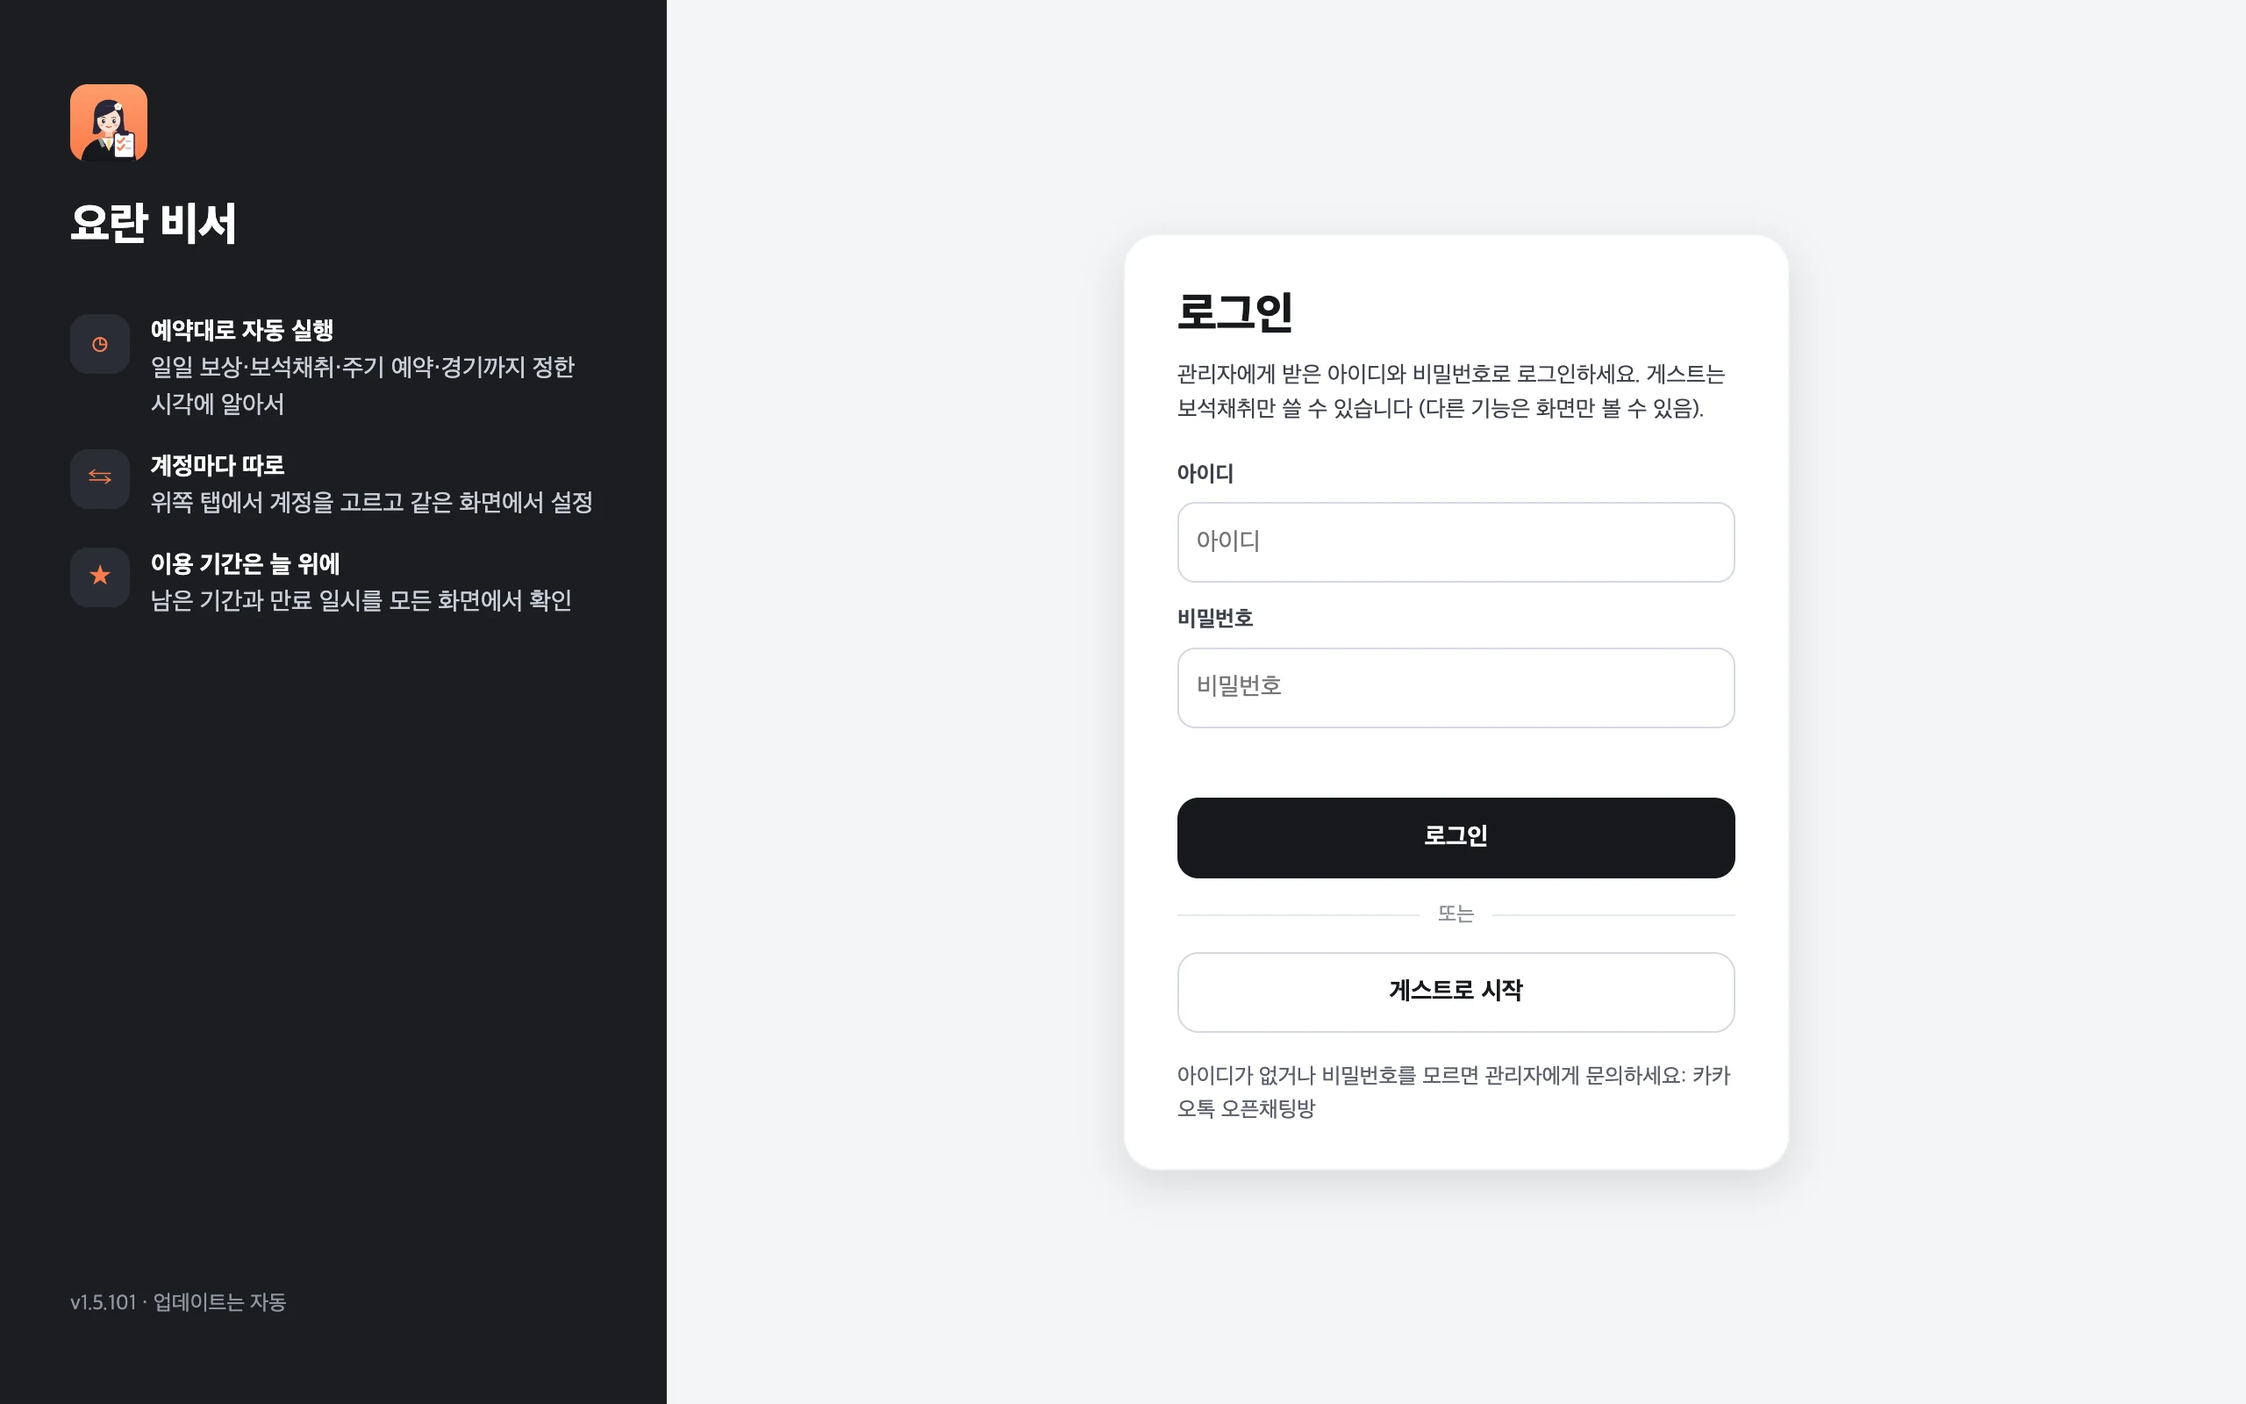
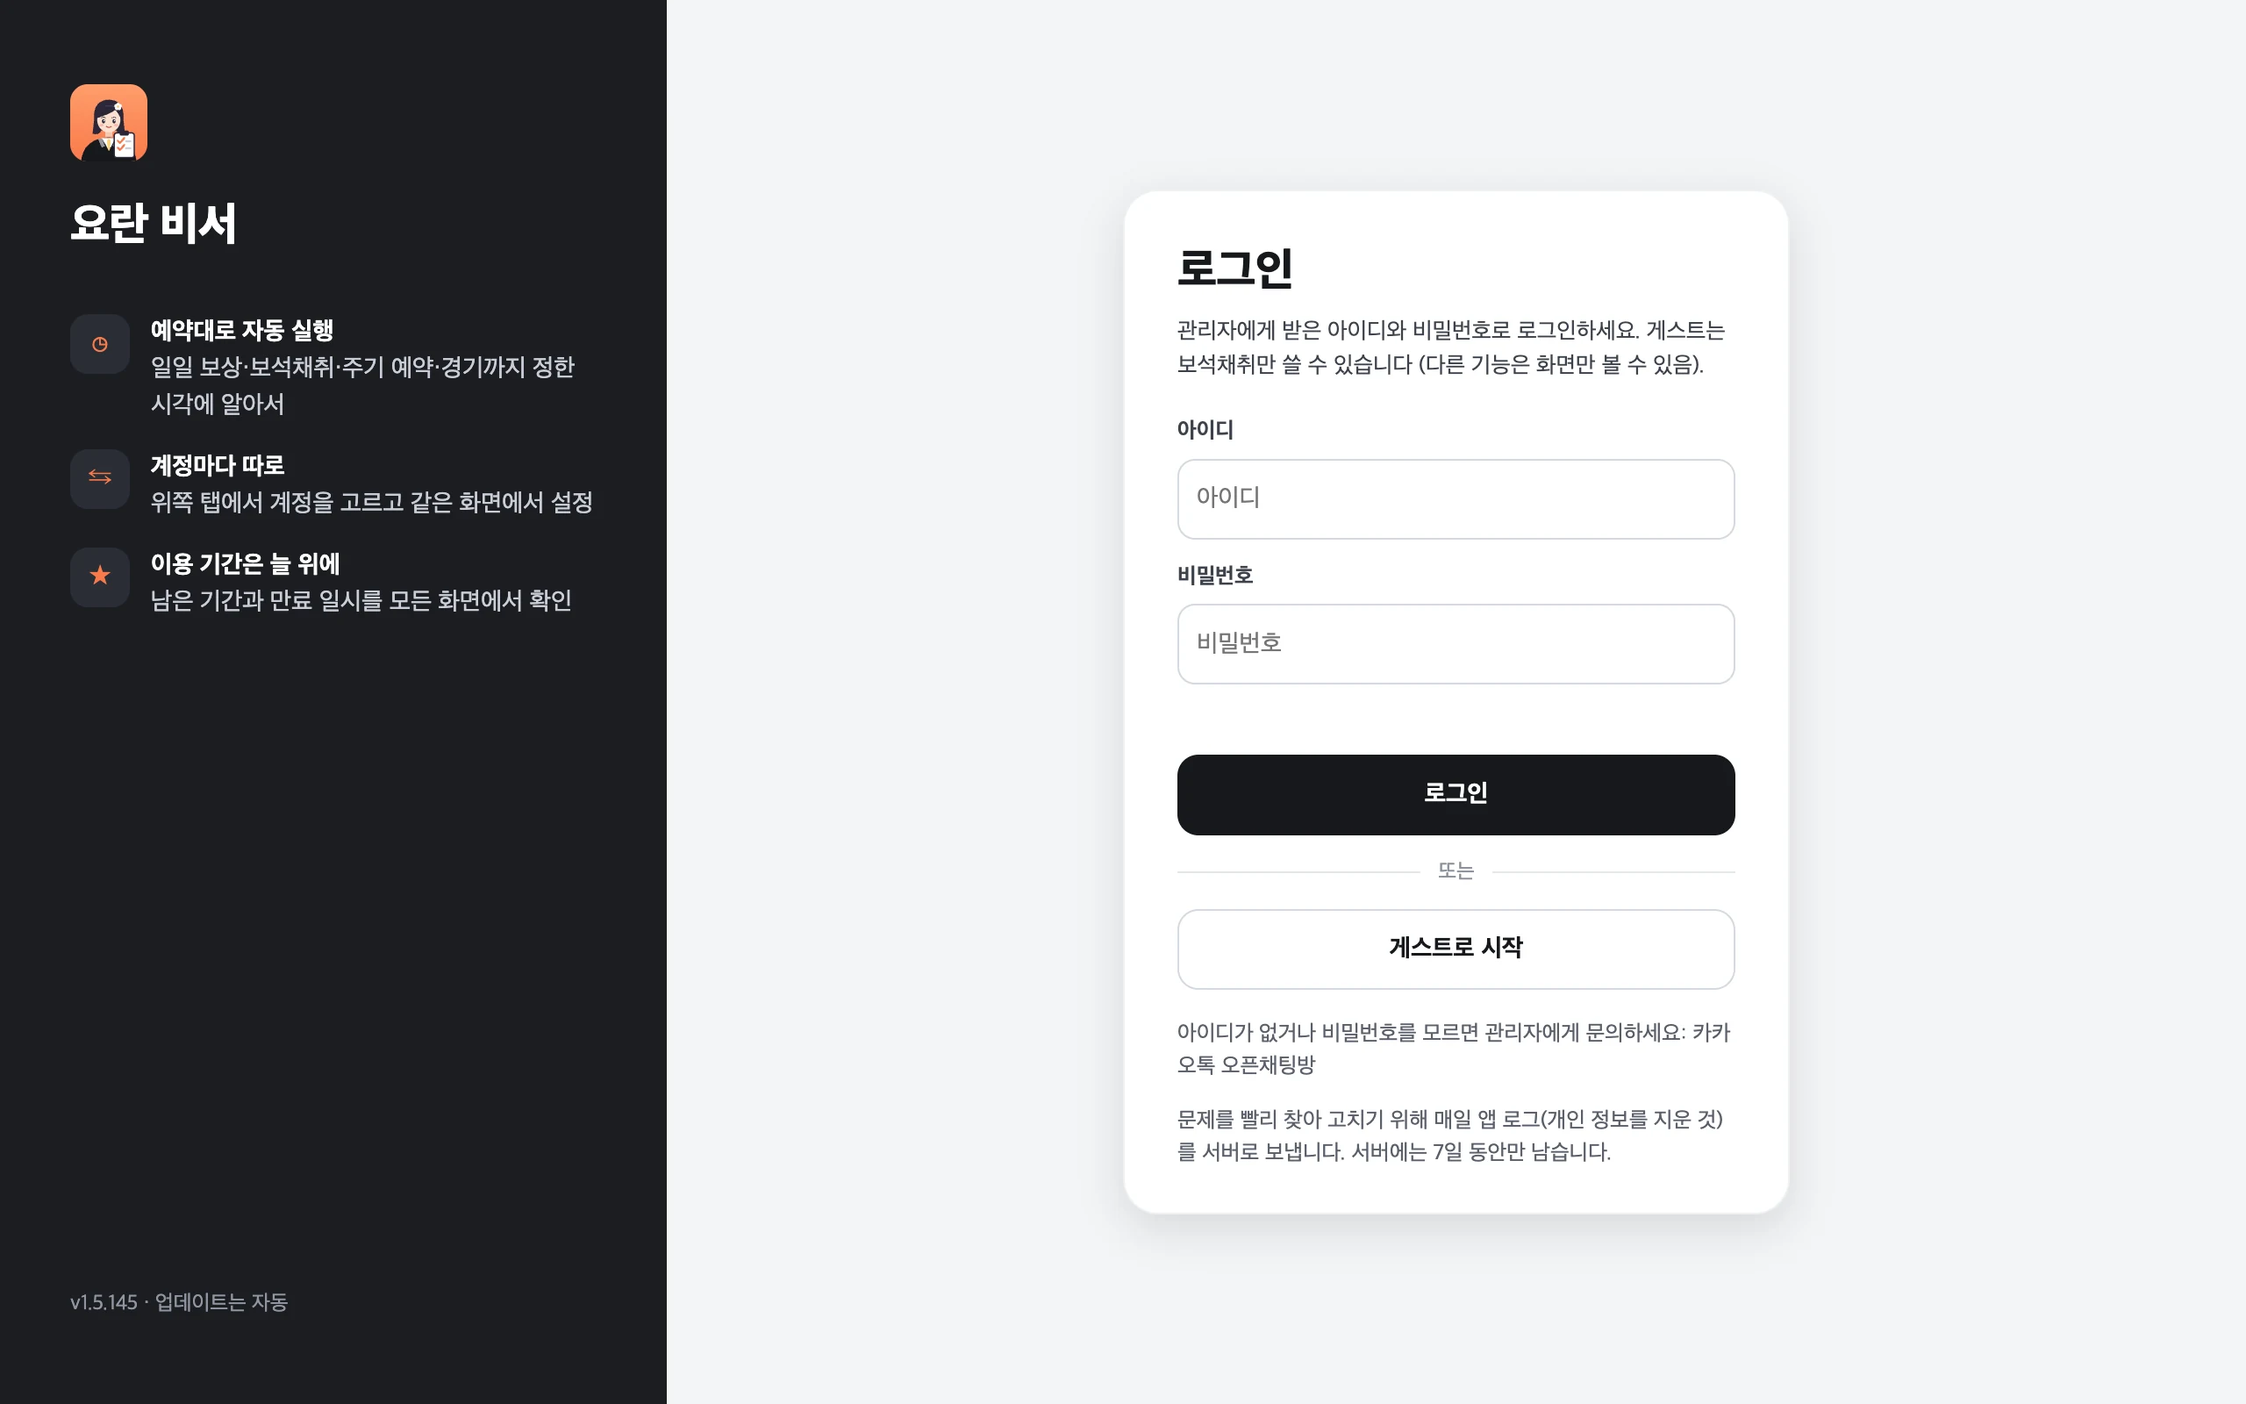
v1.5.145 홈페이지: 앱 로그 보내기 안내 (README 52b21c4와 같게)
- 사용설명서: 기록 절 「앱 로그 보내기」(#log-upload), 로그인 절·문제가 생겼을 때 한 줄
- 모바일 설명서: 기록(로그) 보내기 칸(#logs-upload)·로그인 한 줄·자주 묻는 질문(#faq-log-upload)
- 홈: 자주 묻는 질문 「내 기록(로그)이 서버로 가나요?」
- 로그인 화면 그림 2장 다시 찍음(아래쪽 로그 안내)

Claude-Session: https://claude.ai/code/session_01KmZacAeoiGxHpjKwWGpkTY

Changed region(s): [[0.5, 0.5312, 0.8125, 0.8438], [0.5, 0.1562, 0.7812, 0.5], [0.0625, 0.9062, 0.125, 0.9375]]

diff --git a/docs/android.html b/docs/android.html
@@ -214,7 +214,7 @@
           </div><figcaption>허용 누르기</figcaption></figure>
         </div>
       </div>
-      <div class="steps-fig" id="first-login" data-s data-st="요란 비서 아이디로 로그인" data-k="아이디 비밀번호 로그인 게스트 보석채취 대수 등록 휴대폰수초과">
+      <div class="steps-fig" id="first-login" data-s data-st="요란 비서 아이디로 로그인" data-k="아이디 비밀번호 로그인 게스트 보석채취 대수 등록 휴대폰수초과 앱로그 서버 개인정보 7일">
         <div>
           <h3><span class="n">2</span>요란 비서 아이디로 로그인</h3>
           <p>관리자에게 받은 <b>아이디</b>와 <b>비밀번호</b>를 넣고 <kbd>로그인</kbd>을 누릅니다. PC와 같은 아이디입니다.</p>
@@ -222,6 +222,7 @@
             <li>로그인하면 화면 위에 <b>남은 기간 · 아이디 · 등급 · 만료 일시</b>가 보입니다.</li>
             <li><kbd>게스트로 시작</kbd>하면 보석채취만 쓸 수 있습니다 (다른 기능은 화면만 볼 수 있음).</li>
             <li>휴대폰은 PC와 <b>따로</b> 대수를 셉니다(기본 1대). 「등록 휴대폰 수 초과」로 게스트가 되면 관리자에게 대수를 문의하세요.</li>
+            <li>로그인 화면 아래쪽 안내처럼, 요란 비서가 매일 앱 로그(개인 정보를 지운 것)를 서버로 보냅니다. 서버에는 7일 동안만 남고, 로그인한 앱만 보냅니다(<a href="#logs-upload">앱 로그 보내기</a>, v1.5.145부터).</li>
           </ul>
         </div>
         <div class="figs"><figure class="phone"><div class="ph"><img loading="lazy" src="img/phone-login.webp" width="780" height="1688" alt="안드로이드 앱의 요란 비서 로그인 화면"></div><figcaption>요란 비서 로그인</figcaption></figure></div>
@@ -497,11 +498,19 @@
       </div>
     </section>
 
-    <section class="chap" id="logs" data-k="로그 기록 보내기 문의 오류 파일 다운로드 카카오톡 공유">
+    <section class="chap" id="logs" data-k="로그 기록 보내기 문의 오류 파일 다운로드 카카오톡 공유 서버 앱로그보냄 개인정보 7일">
       <h2>기록(로그) 보내기</h2>
+      <div class="note" id="logs-upload" data-s data-st="앱 로그 보내기 (매일 서버로, 개인 정보를 지운 것, 7일)" data-k="로그보내기 앱로그보냄 서버 전송 업로드 개인정보 7일 관리자"><b>앱 로그 보내기</b> 문제를 빨리 찾아 고치기 위해 요란 비서가 매일 앱 로그(개인 정보를 지운 것)를 서버로 보냅니다. 서버에는 7일 동안만 남습니다(v1.5.145부터, 모든 등급·PC와 휴대폰).
+        <ul>
+          <li>00:30이 지나면 전날 계정 기록을 계정마다 한 번 보냅니다. 앱이 꺼져 있던 날은 다음에 켤 때 최근 7일 안에서 아직 안 보낸 날만 보냅니다. 보내면 계정 기록에 「앱 로그 보냄」 한 줄이 남습니다.</li>
+          <li>보내기 전에 이 기기에서 지우는 것: 컴퓨터·휴대폰 사용자 폴더 경로, 이메일, 로그인 아이디, 계정 이름(→ 계정N), 게임 캐릭터 이름·G123 ID, 컴퓨터 이름.</li>
+          <li>함께 보내는 것: 앱 버전, 운영체제·버전(휴대폰은 안드로이드·WebView 버전과 기종), 그 계정의 기능 설정(예약이 빠졌는지 보기 위함).</li>
+          <li>관리자만 볼 수 있고, 로그인한 앱만 자기 기록을 보냅니다(로그인하지 않고 쓰는 경우는 보내지 않음).</li>
+        </ul>
+      </div>
       <div class="steps-fig" id="logs-send" data-s data-st="로그 파일을 카카오톡으로 보내기" data-k="로그폴더열기 다운로드 RyoranMacro 공유">
         <div>
-          <p>문제가 있을 때 로그 파일을 보내 주시면 원인을 바로 찾을 수 있습니다.</p>
+          <p>문제가 있을 때 로그 파일을 보내 주시면 원인을 바로 찾을 수 있습니다. 오늘 생긴 문제는 다음 날 00:30이 지나야 서버로 가니, 빨리 알려 주시려면 아래처럼 직접 보내 주세요.</p>
           <ol>
             <li>아래 탭 <b>기록</b>에서 <kbd>로그 폴더 열기</kbd>를 누릅니다.</li>
             <li>날짜별 로그가 휴대폰 <b>다운로드 / RyoranMacro / 계정N</b> 폴더에 저장되고 파일 앱이 열립니다.</li>
@@ -538,6 +547,7 @@
       <details class="faq" id="faq-battery-data" data-k="배터리 데이터 사용량 발열 와이파이"><summary>배터리·데이터는 얼마나 쓰나요?</summary><div><p>기능이 도는 동안에만 게임을 돌리므로 그때 배터리와 데이터를 씁니다(게임을 직접 할 때와 비슷). 기능이 끝나고 1분 뒤 게임 창을 닫습니다. 오래 도는 기능(카드 게임·채굴 등)을 많이 켜면 더 씁니다. 와이파이와 충전기에 연결해 두면 안심입니다.</p></div></details>
       <details class="faq" id="faq-pc-together" data-k="pc 같이 동시 함께 컴퓨터"><summary>PC와 휴대폰을 같이 써도 되나요?</summary><div><p>네, 같은 요란 비서 아이디로 PC와 휴대폰을 각각 쓸 수 있습니다(대수는 따로 셈). 다만 <b>같은 게임 계정</b>을 두 곳에서 동시에 돌리면 서로 끊깁니다 — 예: 본계정은 휴대폰, 부계정은 PC처럼 나눠 쓰세요. 설정은 기기마다 따로입니다.</p></div></details>
       <details class="faq" id="faq-accounts" data-k="계정수 5개 여러계정 계정추가 삭제"><summary>게임 계정은 몇 개까지 되나요?</summary><div><p>휴대폰 앱은 5개까지(등급의 계정 수 안에서) 씁니다. 필요 없는 계정은 계정 관리의 <kbd>삭제</kbd> → <kbd>확인</kbd>으로 뺄 수 있습니다. 계정이 많을수록 동시에 쓰는 메모리가 늘어납니다.</p></div></details>
+      <details class="faq" id="faq-log-upload" data-k="로그 서버 전송 보내기 개인정보 7일 앱로그보냄 관리자"><summary>내 기록(로그)이 서버로 가나요?</summary><div><p>네. v1.5.145부터 요란 비서가 문제를 빨리 찾아 고치기 위해 매일 00:30이 지나면 전날 앱 로그를 서버로 보냅니다. 보내기 전에 이 휴대폰에서 이메일·로그인 아이디·계정 이름·게임 캐릭터 이름·G123 ID 같은 개인 정보를 지웁니다. 서버에는 7일 동안만 남고 관리자만 볼 수 있습니다(<a href="#logs-upload">자세히</a>).</p></div></details>
       <details class="faq" id="faq-beta" data-k="베타 경기 확인 테스트"><summary>안드로이드 앱은 베타인가요?</summary><div><p>네. 기능·설정·예약은 PC와 같은 코드로 돌지만, 경기 기능(유파 쟁탈전 등)과 화면을 거치는 일부 작업은 휴대폰에서 계속 확인하고 있습니다. 처음 며칠은 「기록」을 확인해 주시고, 이상하면 로그와 함께 알려 주세요.</p></div></details>
     </section>
 

diff --git a/docs/guide.html b/docs/guide.html
@@ -117,6 +117,7 @@
             <li>기간이 끝나면 게스트(보석채취만)로 바뀌고, 연장하면 다음 확인(2시간마다) 때 원래 등급으로 돌아옵니다. 실행 중이던 기능은 끝까지 합니다.</li>
             <li>인터넷이 끊겨도 마지막으로 확인한 등급으로 24시간까지는 그대로 씁니다.</li>
             <li>아이디마다 쓸 수 있는 PC 대수가 정해져 있을 수 있습니다. PC를 바꿨다면 관리자에게 문의하세요.</li>
+            <li>로그인 화면 아래쪽에 「문제를 빨리 찾아 고치기 위해 매일 앱 로그(개인 정보를 지운 것)를 서버로 보냅니다. 서버에는 7일 동안만 남습니다.」 안내가 있습니다. 로그인한 앱만 보냅니다(<a href="#log-upload">앱 로그 보내기</a>, v1.5.145부터).</li>
           </ul>
         </div>
         <figure class="fig"><div class="shot"><img loading="lazy" src="img/login.webp" alt="로그인 화면"></div><figcaption>로그인 화면</figcaption></figure>
@@ -282,6 +283,14 @@
         </div>
         <figure class="shot"><img loading="lazy" src="img/screen-logs.webp" width="2560" height="1600" alt="기록 화면"></figure>
       </div>
+      <div class="note" id="log-upload" data-s data-st="앱 로그 보내기 (매일 서버로, 개인 정보를 지운 것, 7일)" data-k="로그보내기 앱로그보냄 서버 전송 업로드 개인정보 7일 관리자"><b>앱 로그 보내기</b> 문제를 빨리 찾아 고치기 위해 요란 비서가 매일 앱 로그(개인 정보를 지운 것)를 서버로 보냅니다. 서버에는 7일 동안만 남습니다(v1.5.145부터, 모든 등급·PC와 휴대폰).
+        <ul>
+          <li>00:30이 지나면 전날 계정 기록을 계정마다 한 번 보냅니다. 앱이 꺼져 있던 날은 다음에 켤 때 최근 7일 안에서 아직 안 보낸 날만 보냅니다. 보내면 계정 기록에 「앱 로그 보냄」 한 줄이 남습니다.</li>
+          <li>보내기 전에 이 기기에서 지우는 것: 컴퓨터·휴대폰 사용자 폴더 경로, 이메일, 로그인 아이디, 계정 이름(→ 계정N), 게임 캐릭터 이름·G123 ID, 컴퓨터 이름.</li>
+          <li>함께 보내는 것: 앱 버전, 운영체제·버전(휴대폰은 안드로이드·WebView 버전과 기종), 그 계정의 기능 설정(예약이 빠졌는지 보기 위함).</li>
+          <li>관리자만 볼 수 있고, 로그인한 앱만 자기 기록을 보냅니다(로그인하지 않고 쓰는 경우는 보내지 않음).</li>
+        </ul>
+      </div>
     </section>
 
     <section class="chap" id="rules">
@@ -312,7 +321,7 @@
 
     <section class="chap" id="trouble">
       <h2>문제가 생겼을 때</h2>
-      <p>먼저 「기록」에서 실패한 실행을 눌러 전체 로그를 확인하세요. 오류가 나면 로그에 <code>오류: …</code>로 남고, 같은 폴더에 그 순간의 화면이 <code>error-날짜_시각.png</code>로 저장됩니다(유파 쟁탈전은 <code>gvg-</code>, 일일 보상은 <code>daily-</code> 등으로 시작). 관리자에게 문의할 때 함께 보내 주세요.</p>
+      <p>먼저 「기록」에서 실패한 실행을 눌러 전체 로그를 확인하세요. 오류가 나면 로그에 <code>오류: …</code>로 남고, 같은 폴더에 그 순간의 화면이 <code>error-날짜_시각.png</code>로 저장됩니다(유파 쟁탈전은 <code>gvg-</code>, 일일 보상은 <code>daily-</code> 등으로 시작). 관리자에게 문의할 때 함께 보내 주세요. 전날까지의 앱 로그는 요란 비서가 매일 서버로도 보냅니다(<a href="#log-upload">앱 로그 보내기</a>, v1.5.145부터).</p>
       <div class="table-wrap" style="margin:16px 0 20px">
         <table>
           <thead><tr><th></th><th>로그 폴더</th></tr></thead>

diff --git a/docs/index.html b/docs/index.html
@@ -225,6 +225,7 @@
       <details class="faq"><summary>안드로이드 앱이 돌면 휴대폰을 못 쓰나요?</summary><div><p>아닙니다. 요란 비서는 뒤에서 돌고 게임 화면도 보이지 않아서 카카오톡·유튜브 같은 다른 앱을 평소처럼 쓸 수 있습니다. 알림 표시줄에 「요란 비서」 알림 하나가 남습니다.</p><p>기능이 도는 동안에는 게임 계정 하나에 메모리를 1GB쯤 쓰고 배터리와 데이터를 씁니다. 기능이 끝나고 1분이 지나면 게임 창을 닫아 메모리를 돌려줍니다. 요란 비서를 끄려면 알림의 [요란 비서 종료]를 누르고, 휴대폰을 켤 때 저절로 시작하지 않게 하려면 앱의 계정 관리에서 끕니다. 같은 게임 계정으로 휴대폰에서 직접 게임하면 아래처럼 서로 접속이 끊깁니다.</p></div></details>
       <details class="faq"><summary>휴대폰으로 같은 계정에 접속해도 되나요?</summary><div><p>다른 곳에서 같은 게임 계정으로 접속하면 요란 비서 쪽 게임이 끊깁니다. 요란 비서는 바로 다시 접속하지 않고 30분을 기다렸다가 다시 접속합니다(경기 중에는 바로 다시 접속). 더 일찍 이어 가려면 전용 Chrome 게임 창에서 [확인]을 누르세요.</p></div></details>
       <details class="faq"><summary>업데이트는 어떻게 하나요?</summary><div><p>앱이 1시간마다 새 버전을 확인해 스스로 업데이트합니다. 실행 중인 기능이 끝난 뒤 잠깐 꺼졌다 다시 켜지고, 경기 15분 전부터 경기가 끝날 때까지는 업데이트하지 않습니다. 설정과 게임 로그인은 그대로 유지됩니다.</p></div></details>
+      <details class="faq"><summary>내 기록(로그)이 서버로 가나요?</summary><div><p>네. v1.5.145부터 요란 비서가 문제를 빨리 찾아 고치기 위해 매일 전날 앱 로그를 서버로 보냅니다. 보내기 전에 이메일·로그인 아이디·계정 이름·게임 캐릭터 이름·G123 ID·컴퓨터 이름 같은 개인 정보를 기기에서 지웁니다. 서버에는 7일 동안만 남고 관리자만 볼 수 있습니다(<a href="guide.html#log-upload">자세히</a>).</p></div></details>
       <details class="faq"><summary>게임 창을 봐도 되나요?</summary><div><p>전용 Chrome 창은 다른 창에 가려져 있어도 동작하고, 최소화되어 있으면 자동으로 되돌립니다. 요란 비서가 도는 동안 그 창을 직접 누르면 요란 비서 조작과 겹칠 수 있으니 지켜보기만 해 주세요.</p></div></details>
     </div>
   </section>
